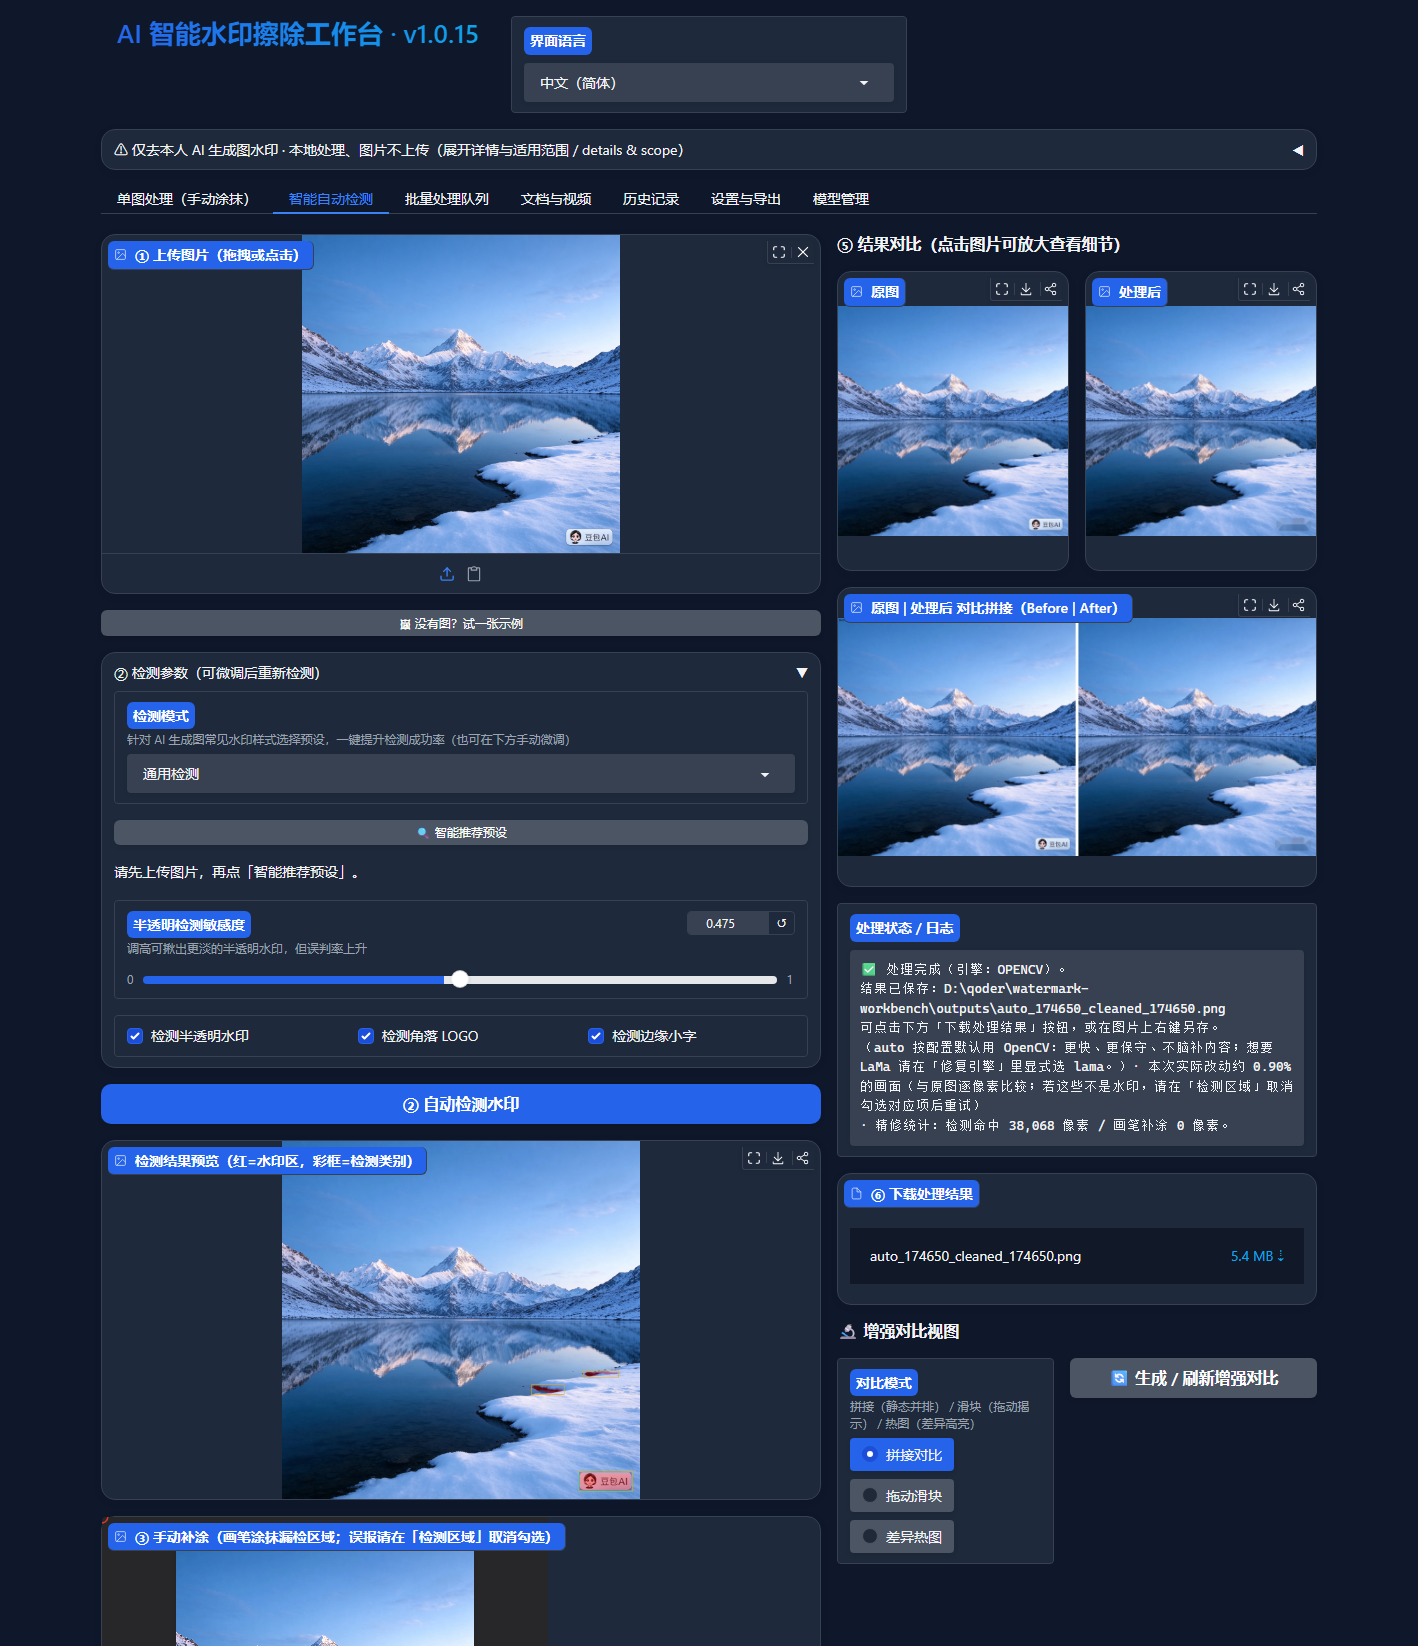
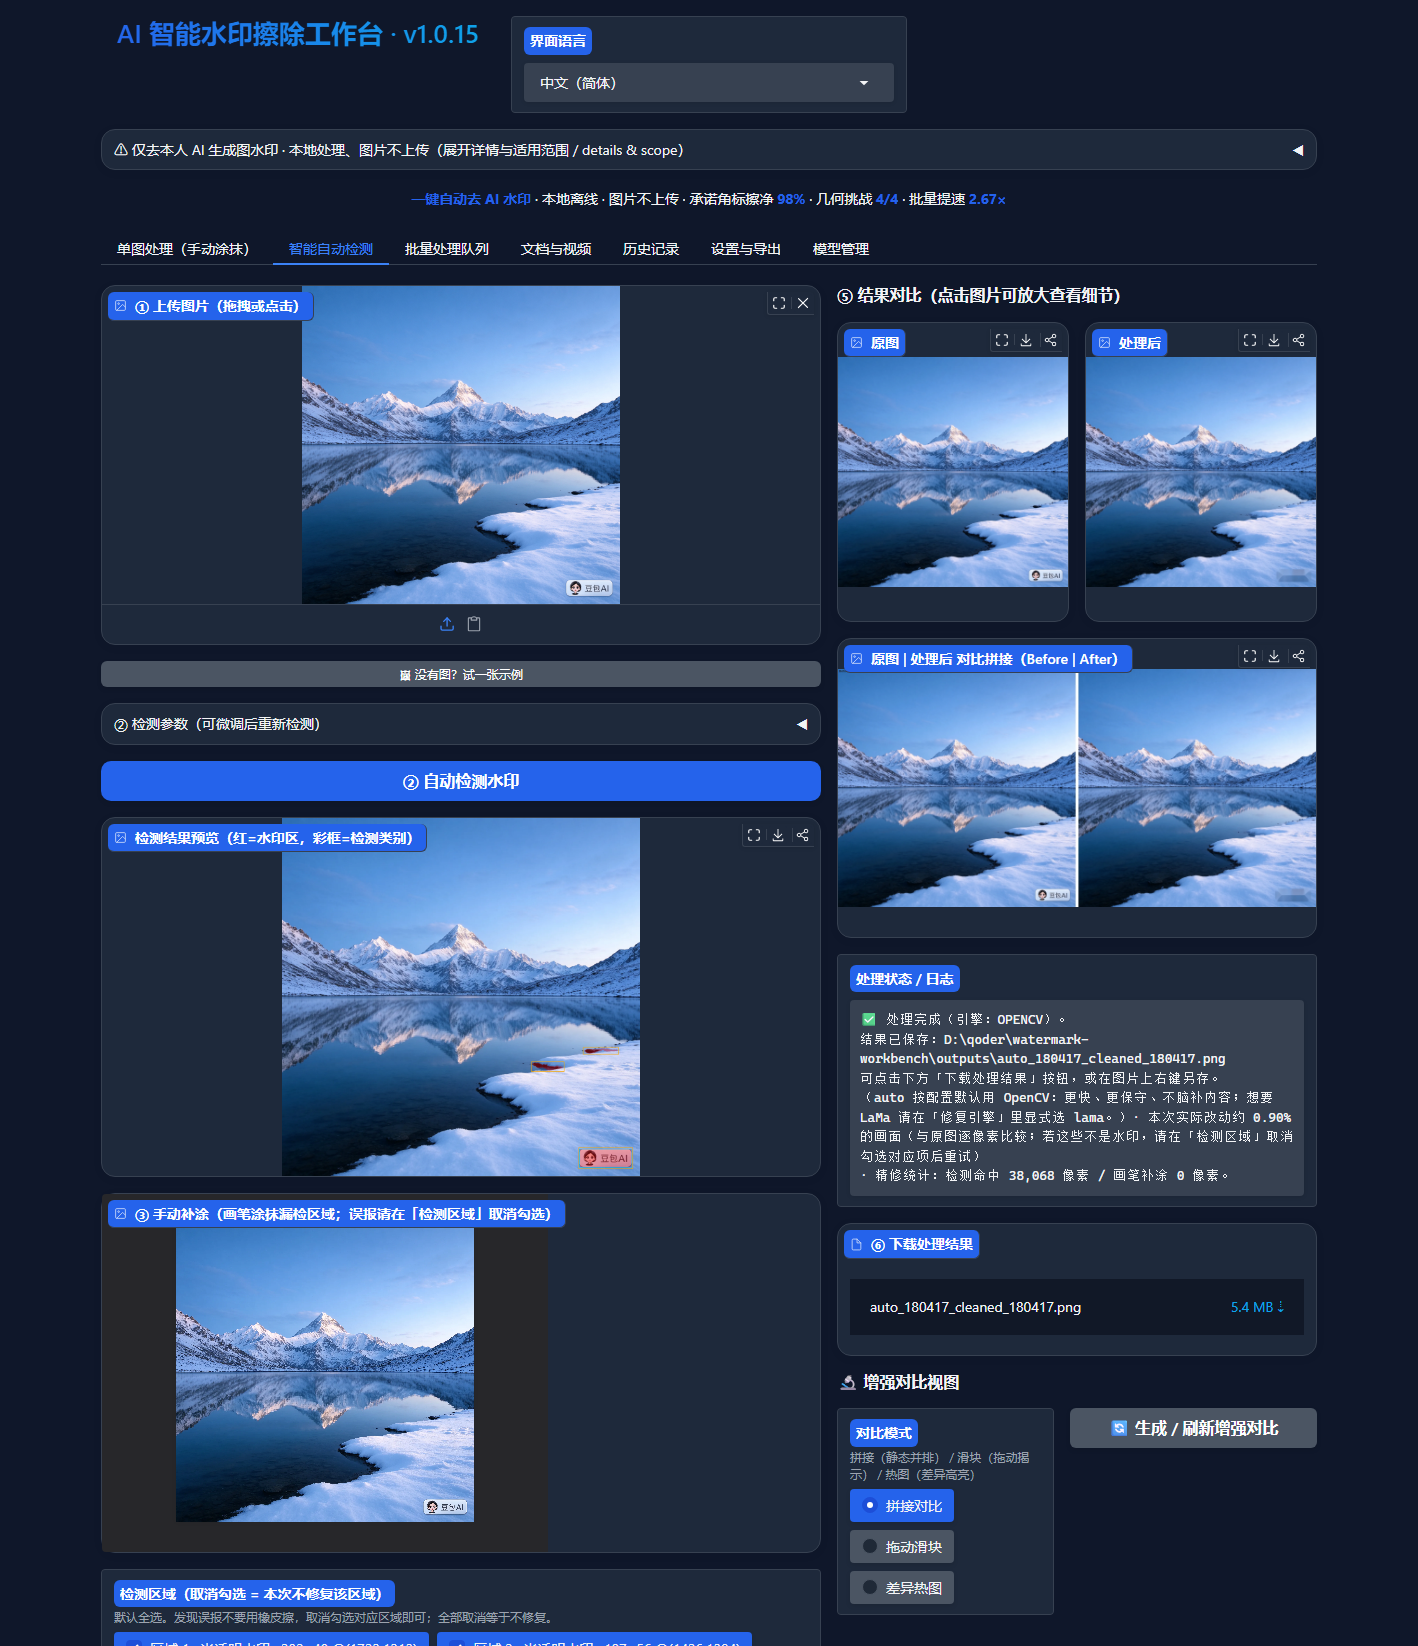
feat(界面): 独特质感——默认自动页签+本地信任价值主张条+检测参数折叠（#414，调研竞品落地，103守卫绿）

diff --git a/ui/app.py b/ui/app.py
@@ -433,7 +433,14 @@ def build_app() -> gr.Blocks:
             scope_md = gr.Markdown(render_scope_note())
             register(scope_md, lambda: {"value": render_scope_note()})
 
-        with gr.Tabs():
+        # 阶段 414（独特质感）：工具即首页——一句价值主张 + 本地信任 + 实测承诺数字。
+        gr.Markdown(
+            "**一键自动去 AI 水印** · 本地离线 · 图片不上传 · "
+            "承诺角标擦净 **98%** · 几何挑战 **4/4** · 批量提速 **2.67×**",
+            elem_id="hero_tagline",
+        )
+
+        with gr.Tabs(selected="auto"):
             with gr.TabItem(t("app.tab.single"), id="single", elem_id="single"):
                 build_single_tab()
             with gr.TabItem(t("app.tab.auto"), id="auto", elem_id="auto"):

diff --git a/ui/theme.py b/ui/theme.py
@@ -203,6 +203,17 @@ body .gradio-container .prose blockquote li {
    注：页脚（Gradio 品牌栏）在 .gradio-container 之外，本 CSS 作用不到，属已知边界。 */
 /* 次要文字/标签/标题的可读性由 build_app_theme().set() 的 _dark 变体统一给出
    （CSS 变量方案实测会被 Gradio 的选择器重写打乱，弃用）。 */
+
+/* 阶段 414（独特质感）：首屏价值主张条——居中、克制，承诺数字用品牌色强调。 */
+.gradio-container #hero_tagline {
+    text-align: center;
+    color: var(--body-text-color-subdued);
+    font-size: 14px;
+    margin: 2px 0 10px;
+}
+.gradio-container #hero_tagline strong {
+    color: __PRIMARY__;
+}
 """
 
 

diff --git a/ui/tab_auto.py b/ui/tab_auto.py
@@ -740,7 +740,8 @@ def build_auto_tab():
                 )
                 reg_value(sample_btn, "auto.sample_btn")
 
-            with gr.Accordion(t("auto.detect_accordion"), open=True) as _det_acc:
+            # 阶段 414（首屏减负）：高级检测参数默认折叠，首屏只留上传→检测→修复主链路。
+            with gr.Accordion(t("auto.detect_accordion"), open=False) as _det_acc:
                 reg_label(_det_acc, "auto.detect_accordion")
                 # 阶段 20：检测模式（预设）下拉，一键适配 AI 生成图常见水印样式。
                 detect_preset = gr.Dropdown(

diff --git a/.workbuddy/memory/2026-11-15.md b/.workbuddy/memory/2026-11-15.md
@@ -123,3 +123,10 @@ docs/408 + INDEX + CHANGELOG [Unreleased] + 本日记。不推送/不发布（1.
 - 合规+适用范围收进默认折叠 Accordion（标题=始终可见合规摘要，含本地·不上传）；语言并入标题行。
 - 首屏主流程上移约220px；真实截图验证（Chrome 无头+mini_cdp）；81 UI 守卫绿；官方截图刷新。
 - 方法：brainstorming bounded→先看真实界面→问重点→给设计获批→改→截图+守卫验证。
+
+## 阶段 414：客户端独特质感（调研竞品后落地）
+
+- 调研 Dewatermark/PixelBin/LightPDF：共性 upload-first/分段模型/Before-After/隐私信任。
+- 本项目独有＝本地离线·不上传（竞品都传服务器）+实测承诺数字。默认页签改自动；首屏价值主张条
+  （本地信任+98%/4/4/2.67×）；自动页检测参数折叠；主链路上传→检测→修复→下载。
+- 103 UI 守卫绿；官方截图刷新。方法：WebSearch/WebFetch 竞品→提炼差异→设计获批→改→截图验证。

diff --git a/CHANGELOG.md b/CHANGELOG.md
@@ -52,6 +52,14 @@
 
 ## [Unreleased]
 
+### 界面（阶段 414 · 独特质感：本地信任 + 一键自动 + 工具即首页）
+
+- 调研 Dewatermark/PixelBin/LightPDF 等头部产品（upload-first/分段模型/Before-After/隐私信任），
+  提炼本项目独有卖点＝**本地离线·图片不上传**（竞品均传服务器）+ 可实测承诺数字。
+- 默认页签改「智能自动」（upload-first）；首屏价值主张条（本地信任 + 98%/4/4/2.67× 品牌色强调）；
+  自动页高级检测参数默认折叠；首屏只留 上传→检测→修复→下载 主链路。
+- 103 条 UI 守卫全绿；官方截图刷新。
+
 ### 界面（阶段 413 · 客户端首屏减负）
 
 - 合规声明+适用范围收进默认折叠 Accordion，折叠标题即始终可见的合规摘要
